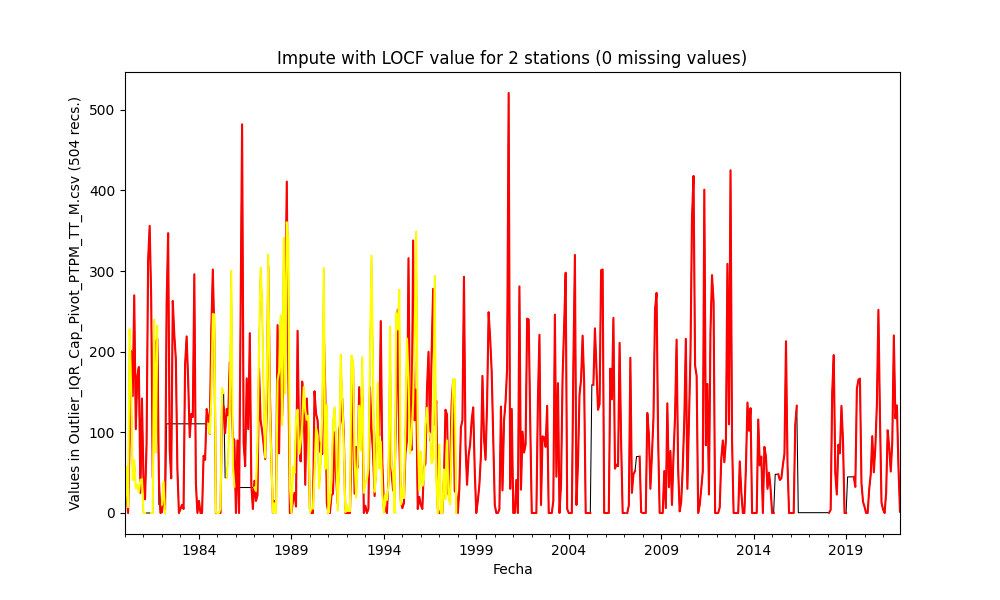
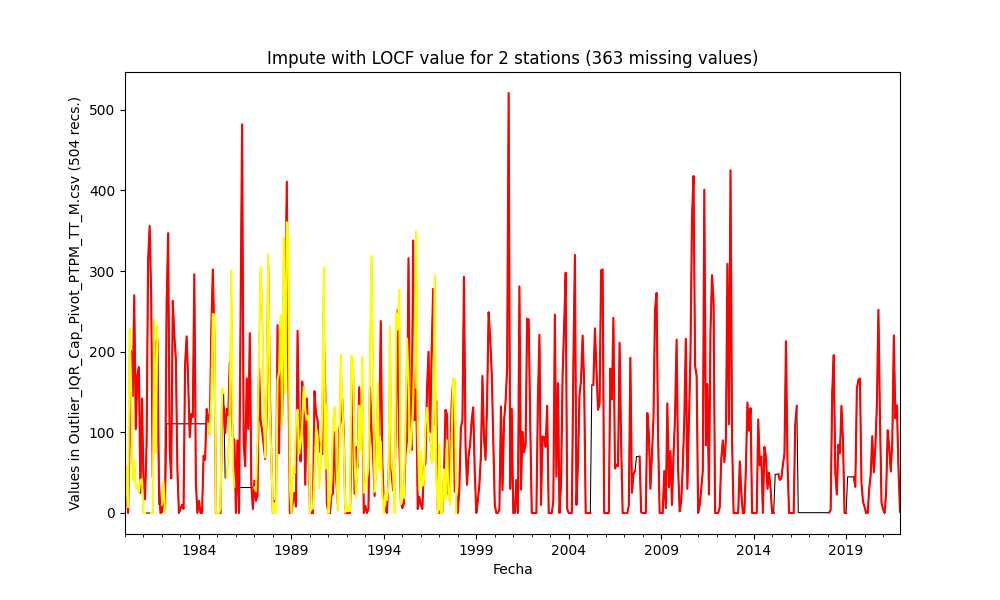
General update.

Changed region(s): [[0.248, 0.06, 0.775, 0.12]]

diff --git a/.src/Impute.py b/.src/Impute.py
@@ -105,21 +105,25 @@ print_log(df.describe().T.to_markdown(), center_div=True) # .T for transpose
 # Method 1 - Impute missing values with mean values
 df_impute = df.fillna(df.mean())
 df_isnull = pd.DataFrame(df_impute.isnull().sum(), columns=['Nulls'])
-total_nulls = df_isnull['Nulls'].sum()
-print_log('\n### Method 1 - Imputing with mean values for %d stations (%d missing values & %d imputed)' % (df.shape[1], total_nulls, total_nulls))
+total_imputed = total_nulls - df_isnull['Nulls'].sum()
+print_log('\n### Method 1 - Imputing with mean values for %d stations (%d missing values & %d imputed)' % (df.shape[1], total_nulls, total_imputed))
 impute_file = 'Impute_Mean_' + pivot_table_name
 plot_impute(df, df_impute, 'mean', impute_file)
 
 
 # Impute missing values with median values
-print_log('\n### Method 2 - Imputing with median values for %d stations (%d missing values)' % (df.shape[1], total_nulls))
 df_impute = df.fillna(df.median())
+df_isnull = pd.DataFrame(df_impute.isnull().sum(), columns=['Nulls'])
+total_imputed = total_nulls - df_isnull['Nulls'].sum()
+print_log('\n### Method 2 - Imputing with median values for %d stations (%d missing values & %d imputed)' % (df.shape[1], total_nulls, total_imputed))
 impute_file = 'Impute_Median_' + pivot_table_name
 plot_impute(df, df_impute, 'median', impute_file)
 
 # Impute missing values with Last Observation Carried Forward (LOCF)
-print_log('\n### Method 3 - Imputing with LOCF values for %d stations (%d missing values)' % (df.shape[1], total_nulls))
 df_impute = df.fillna(method = 'bfill')
+df_isnull = pd.DataFrame(df_impute.isnull().sum(), columns=['Nulls'])
+total_imputed = total_nulls - df_isnull['Nulls'].sum()
+print_log('\n### Method 3 - Imputing with LOCF values for %d stations (%d missing values & %d imputed)' % (df.shape[1], total_nulls, total_imputed))
 impute_file = 'Impute_LOCF_' + pivot_table_name
 plot_impute(df, df_impute, 'LOCF', impute_file)
 

diff --git a/.datasets/IDEAM_Impute/Impute_Outlier_IQR_Cap_Pivot_PTPM_TT_M.csv.md b/.datasets/IDEAM_Impute/Impute_Outlier_IQR_Cap_Pivot_PTPM_TT_M.csv.md
@@ -1,7 +1,7 @@
 ## Impute missing values in time series through statistical methods
 
 * Processed file: [D:/R.LTWB/.datasets/IDEAM_Outlier/Outlier_IQR_Cap_Pivot_PTPM_TT_M.csv](../IDEAM_EDA/Outlier_IQR_Cap_Pivot_PTPM_TT_M.csv)
-* Execution date: 2022-11-10 11:00:42.992772
+* Execution date: 2022-11-10 11:03:45.927189
 * Python version: 3.10.5 (tags/v3.10.5:f377153, Jun  6 2022, 16:14:13) [MSC v.1929 64 bit (AMD64)]
 * Python path: ['D:\\R.LTWB\\.src', 'D:\\R.LTWB', 'D:\\R.GISPython.wiki', 'D:\\R.HydroTools', 'D:\\R.HydroTools.wiki']
 * matplotlib version: 3.6.0
@@ -63,14 +63,14 @@ General statistics table - Initial file
 </div>
 
 
-### Method 1 - Imputing with mean values for 2 stations (0 missing values & 0 imputed)
+### Method 1 - Imputing with mean values for 2 stations (363 missing values & 363 imputed)
 
 ![R.LTWB](Impute_Mean_Outlier_IQR_Cap_Pivot_PTPM_TT_M.csv.png)
 
-### Method 2 - Imputing with median values for 2 stations (0 missing values)
+### Method 2 - Imputing with median values for 2 stations (363 missing values & 363 imputed)
 
 ![R.LTWB](Impute_Median_Outlier_IQR_Cap_Pivot_PTPM_TT_M.csv.png)
 
-### Method 3 - Imputing with LOCF values for 2 stations (0 missing values)
+### Method 3 - Imputing with LOCF values for 2 stations (363 missing values & 75 imputed)
 
 ![R.LTWB](Impute_LOCF_Outlier_IQR_Cap_Pivot_PTPM_TT_M.csv.png)
